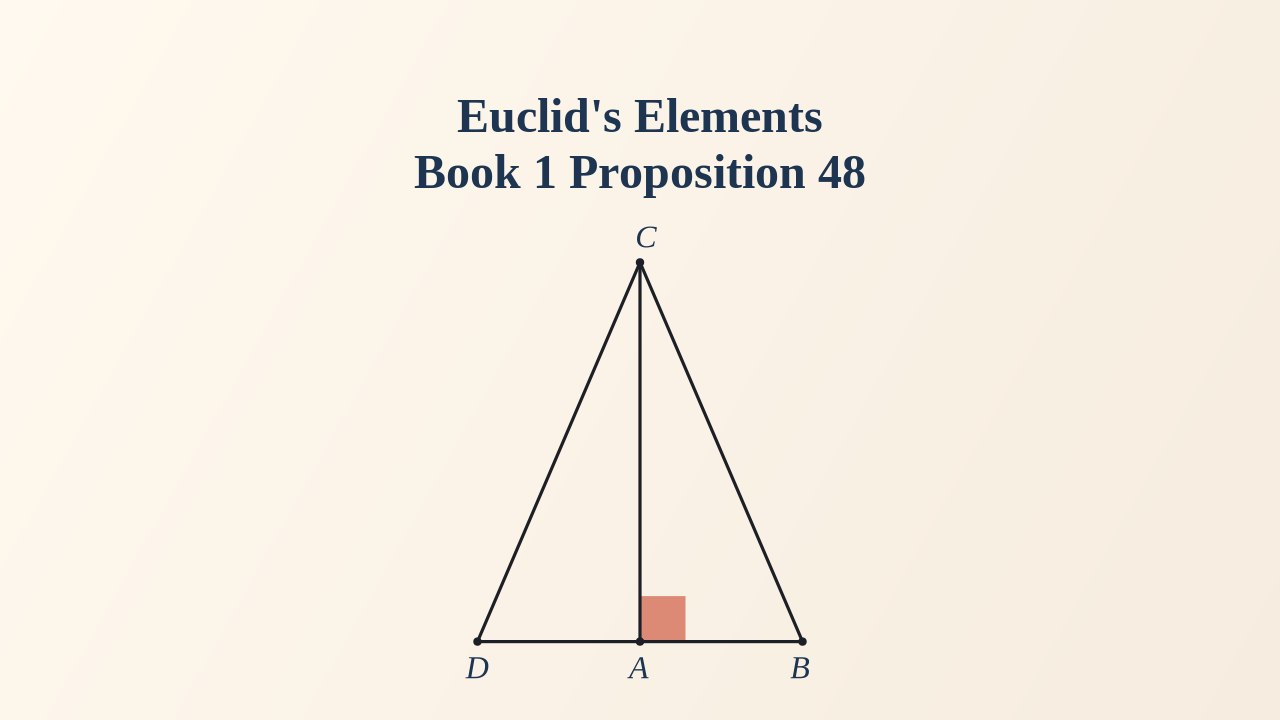
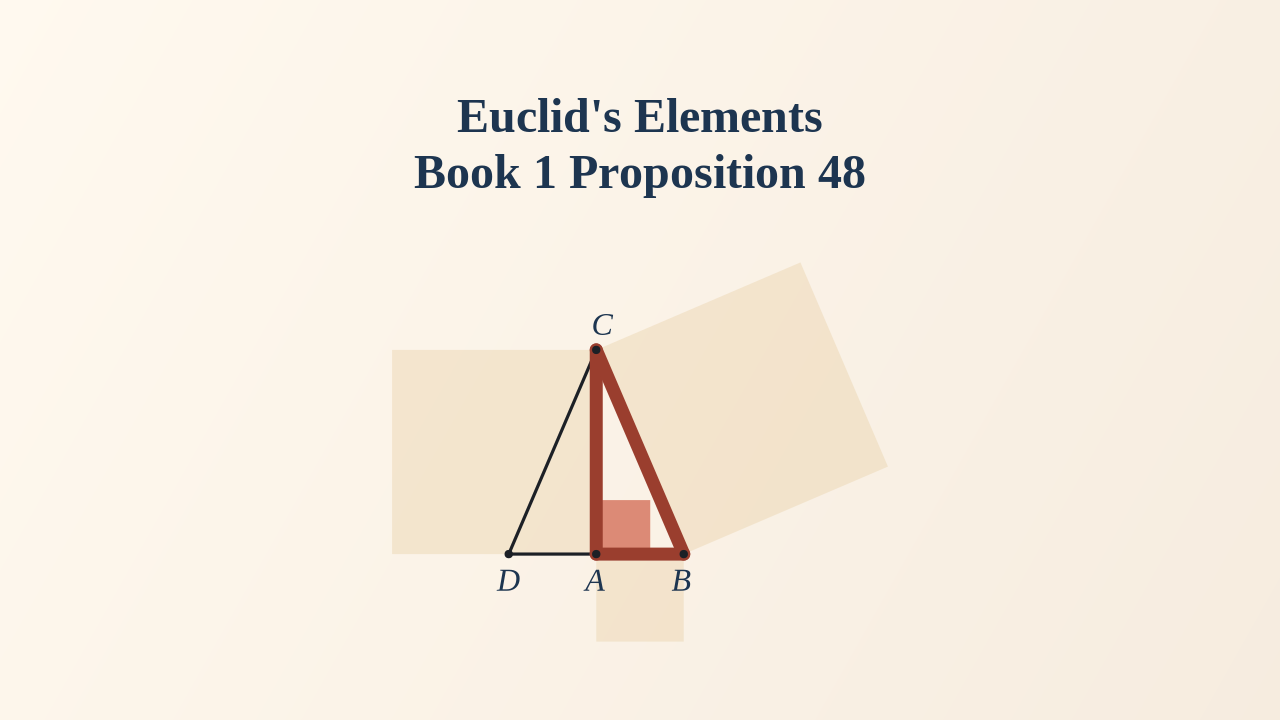
Highlight the sides on the I.48 thumbnail, and wash the squares lightly.
The plate draws triangle ABC and the construction, not the squares the enunciation names. The sides take the brick, and the three squares are one very light wash so the card still matches the diagram.

Changed region(s): [[0.2812, 0.3667, 0.6875, 0.9472], [0.5938, 0.7639, 0.625, 0.8556], [0.3438, 0.9167, 0.375, 0.9472]]

diff --git a/scripts/youtube_book1_thumbs.py b/scripts/youtube_book1_thumbs.py
@@ -114,13 +114,20 @@ and the two leg squares in the gold, so the equality reads as one area
 equal to the other two together. One color would say the three squares
 are the same area. The joins and the parallel are the proof, not the
 subject, and the plate's angle at A is not a right angle, so a square
-mark there would not sit on the arms. I.48 concludes that the angle
-contained by the two remaining sides is a right-angle. The squares are
-not drawn. The card keeps the plate — AD and DC are the construction —
-and marks ∠BAC with one rose square, a hair of the shorter arm, so the
-mark is the right-angle and not the triangle. ∠DAC is the constructed
-right-angle, not the one the enunciation names.
-Labels stay navy, the color every other card uses.
+mark there would not sit on the arms. I.48 is the converse, and it is
+about triangle ABC. The square on one side equals the (sum of the)
+squares on the other two, so the angle those two contain is a
+right-angle. The plate draws neither square — AD and DC are the
+construction — and the card keeps every stroke and letter of that
+plate. The sides the squares stand on, BA, AC, and BC, take the brick.
+AD and DC stay the plate ink: coloring them would be the proof. The
+three squares are one very light wash, outward, not a second hue and
+not an edge. They are not on the plate, so a strong fill would replace
+the diagram. One wash: the hues are not the claim, the sides are.
+∠BAC, the angle the enunciation concludes is right, takes one rose
+square at the I.42 card size. ∠DAC is the right-angle drawn for the
+proof, not the conclusion. Labels stay navy, the color every other
+card uses.
 """
 
 from __future__ import annotations
@@ -207,6 +214,11 @@ WASHES: dict[int, list[tuple[str, ...]]] = {
     # the sum of the other two, so the hues are the two sides of that
     # equality, not three areas and not one.
     47: [("B", "D", "E", "C"), ("F", "B", "A", "G"), ("A", "C", "K", "H")],
+    # The squares on BC, BA, and AC. The plate draws none of them: AD and
+    # DC are the construction. prepare() pins the outer corners, outward,
+    # and leaves the plate. One very light wash (SQUARE_FILL): the hues
+    # are not the claim. The sides are the highlight.
+    48: [("B", "C", "Bc1", "Bc2"), ("B", "A", "Ba1", "Ba2"), ("A", "C", "Ac1", "Ac2")],
 }
 
 # Equal areas share a wash. Two hues would say the figures differ.
@@ -238,6 +250,9 @@ LINES: dict[int, list[tuple[str, str]]] = {
     # BC and BD, the two straight-lines that are straight-on. BE is the
     # reductio, not the subject. AB is the line they stand on.
     14: [("B", "C"), ("B", "D")],
+    # The sides the squares stand on, BA, AC, and BC. AD and DC are the
+    # construction, and they stay the plate ink.
+    48: [("B", "A"), ("A", "C"), ("B", "C")],
 }
 
 # Further line equalities, each a hue that is not the angle yellow.
@@ -294,8 +309,8 @@ ANGLES: dict[int, list[list[tuple[str, str, str]]]] = {
     # ∠E = ∠FKM, the given angle and the angle the constructed
     # parallelogram stands in. One set. Arm ends of E are not lettered.
     45: [[("Eleft", "E", "Eright"), ("F", "K", "M")]],
-    # ∠BAC, the angle the enunciation concludes is right. One mark, a
-    # square (SQUARE_MARK), not a pie. AD and DC are the construction.
+    # ∠BAC, the angle the enunciation concludes is right. One mark, a square
+    # (SQUARE_MARK), not a pie. ∠DAC is the right-angle of the construction.
     48: [[("B", "A", "C")]],
 }
 
@@ -355,10 +370,10 @@ ANGLE_MARK: dict[int, list[tuple[tuple[int, int, int], float | None]]] = {
     # angle and the angle the construction stands in. I.44 and I.45 omit an
     # entry and take this mark at the I.42 card size (GIVEN_ANGLE_PIE_PX).
     42: [(PIE_ALT, GIVEN_ANGLE_PIE)],
-    # ∠BAC, the right-angle the enunciation names. One rose square, a hair
-    # of the shorter arm, so the mark sits in the corner and does not fill
-    # the triangle. The side is that pie radius (SQUARE_MARK).
-    48: [(PIE_ALT, 0.28)],
+    # ∠BAC, the right-angle the enunciation names. One rose square, the I.42
+    # card size, so the mark does not shrink beside the squares. A hair of
+    # the arm reads as a tick. The side is that pie radius (SQUARE_MARK).
+    48: [(PIE_ALT, None)],
 }
 
 # A hair on one pie, after the group radius. Same color, not a second set.
@@ -375,8 +390,32 @@ ANGLE_HAIR: dict[tuple[int, str, str, str], float] = {
 # A right-angle is a square, not a pie. The side is the radius the pie
 # would have taken, so the mark stays the same size and only the shape
 # changes. Two adjacent right-angles are two squares. I.11, I.12, and
-# the right-angle I.48 concludes.
+# the right-angle I.48 concludes. I.48's side squares are a light wash,
+# not this.
 SQUARE_MARK = {11, 12, 48}
+
+# Outer edges of the light squares, so the wash fits on the card. Not
+# stroked: a colored edge would be a square the plate does not draw.
+SQUARE_QUIET: dict[int, tuple[tuple[str, str], ...]] = {
+    48: (
+        ("C", "Bc1"),
+        ("Bc1", "Bc2"),
+        ("Bc2", "B"),
+        ("A", "Ba1"),
+        ("Ba1", "Ba2"),
+        ("Ba2", "B"),
+        ("C", "Ac1"),
+        ("Ac1", "Ac2"),
+        ("Ac2", "A"),
+    ),
+}
+
+# Fills for squares the enunciation names and the plate does not draw.
+# One very light wash. Two hues would say the squares differ, and a
+# strong fill would replace the plate. The sides are the highlight.
+SQUARE_FILL: dict[int, tuple[tuple[int, int, int], float]] = {
+    48: ((226, 198, 148), 0.32),
+}
 
 PLACE_DEG = {
     "Right": 0.0,
@@ -1025,8 +1064,39 @@ def angle_square(scene: Scene, arm: str, vertex: str, other: str, side: float) -
     ]
 
 
+def square_outward(p: V2, q: V2, away: V2) -> list[V2]:
+    """Square on directed pq, on the side away from `away`. y is up.
+
+    The two outer corners follow q, then p, so a wash p–q–outer–outer
+    walks the boundary without crossing.
+    """
+    left = V2(-(q.y - p.y), q.x - p.x)
+    right = V2(q.y - p.y, -(q.x - p.x))
+    mid = V2((p.x + q.x) / 2, (p.y + q.y) / 2)
+    left_of = mid.add(left.mul(0.5)).dist(away)
+    right_of = mid.add(right.mul(0.5)).dist(away)
+    side = left if left_of > right_of else right
+    return [p, q, q.add(side), p.add(side)]
+
+
 def prepare(n: int, scene: Scene) -> None:
-    """Check the angle marks. The plate itself is not edited."""
+    """Check the angle marks. I.48 pins the squares the plate does not draw."""
+    if n == 48:
+        # The enunciation is the squares on the sides of ABC, and the
+        # right-angle they imply. The plate draws neither square. AD and DC
+        # are the construction, so the card keeps them and draws the squares
+        # outward. The side the square stands on is already a plate stroke.
+        for key, pn, qn, away in (
+            ("Bc", "B", "C", "A"),
+            ("Ba", "B", "A", "C"),
+            ("Ac", "A", "C", "B"),
+        ):
+            pts = square_outward(scene.at(pn), scene.at(qn), scene.at(away))
+            scene.pin(f"{key}1", pts[2])
+            scene.pin(f"{key}2", pts[3])
+        # Outer corners count in the fit. The edges are not stroked.
+        for u, v in SQUARE_QUIET.get(n, ()):
+            scene.join(u, v)
     for group in ANGLES.get(n, []):
         for arm, vertex, other in group:
             for name in (arm, vertex, other):
@@ -1124,8 +1194,12 @@ def render(n: int, scene: Scene, out: Path, book: int = 1, washes=None) -> None:
         cr.close_path()
 
     regions = washes.get(n, [])
+    fill = SQUARE_FILL.get(n)
     for i, names in enumerate(regions):
-        if len(regions) == 1 or n in SAME_WASH:
+        if fill is not None:
+            # One very light wash. The plate does not draw these squares.
+            cr.set_source_rgba(*rgb(fill[0]), fill[1])
+        elif len(regions) == 1 or n in SAME_WASH:
             cr.set_source_rgba(*rgb(WASH), 0.85)
         elif i == 0:
             cr.set_source_rgba(*rgb(WASH), 0.85)
@@ -1221,6 +1295,8 @@ def render(n: int, scene: Scene, out: Path, book: int = 1, washes=None) -> None:
     lit_ink = {(a, b) for a, b in lit_segs + alt_segs + extra_segs} | {
         (b, a) for a, b in lit_segs + alt_segs + extra_segs
     }
+    square_edges = list(SQUARE_QUIET.get(n, ()))
+    square_ink = {(a, b) for a, b in square_edges} | {(b, a) for a, b in square_edges}
     # Construction stays the same ink as I.1. Only the named lines are lit.
     # A named side may be chained through a construction point (D on AB).
     # The highlight is the whole chord, drawn over the pieces, so the plate's
@@ -1247,7 +1323,7 @@ def render(n: int, scene: Scene, out: Path, book: int = 1, washes=None) -> None:
     cr.set_line_cap(cairo.LINE_CAP_ROUND)
     cr.set_line_join(cairo.LINE_JOIN_ROUND)
     for a, b in scene.segs:
-        if (a, b) in lit_ink:
+        if (a, b) in lit_ink or (a, b) in square_ink:
             continue
         cr.move_to(*pt(a))
         cr.line_to(*pt(b))
